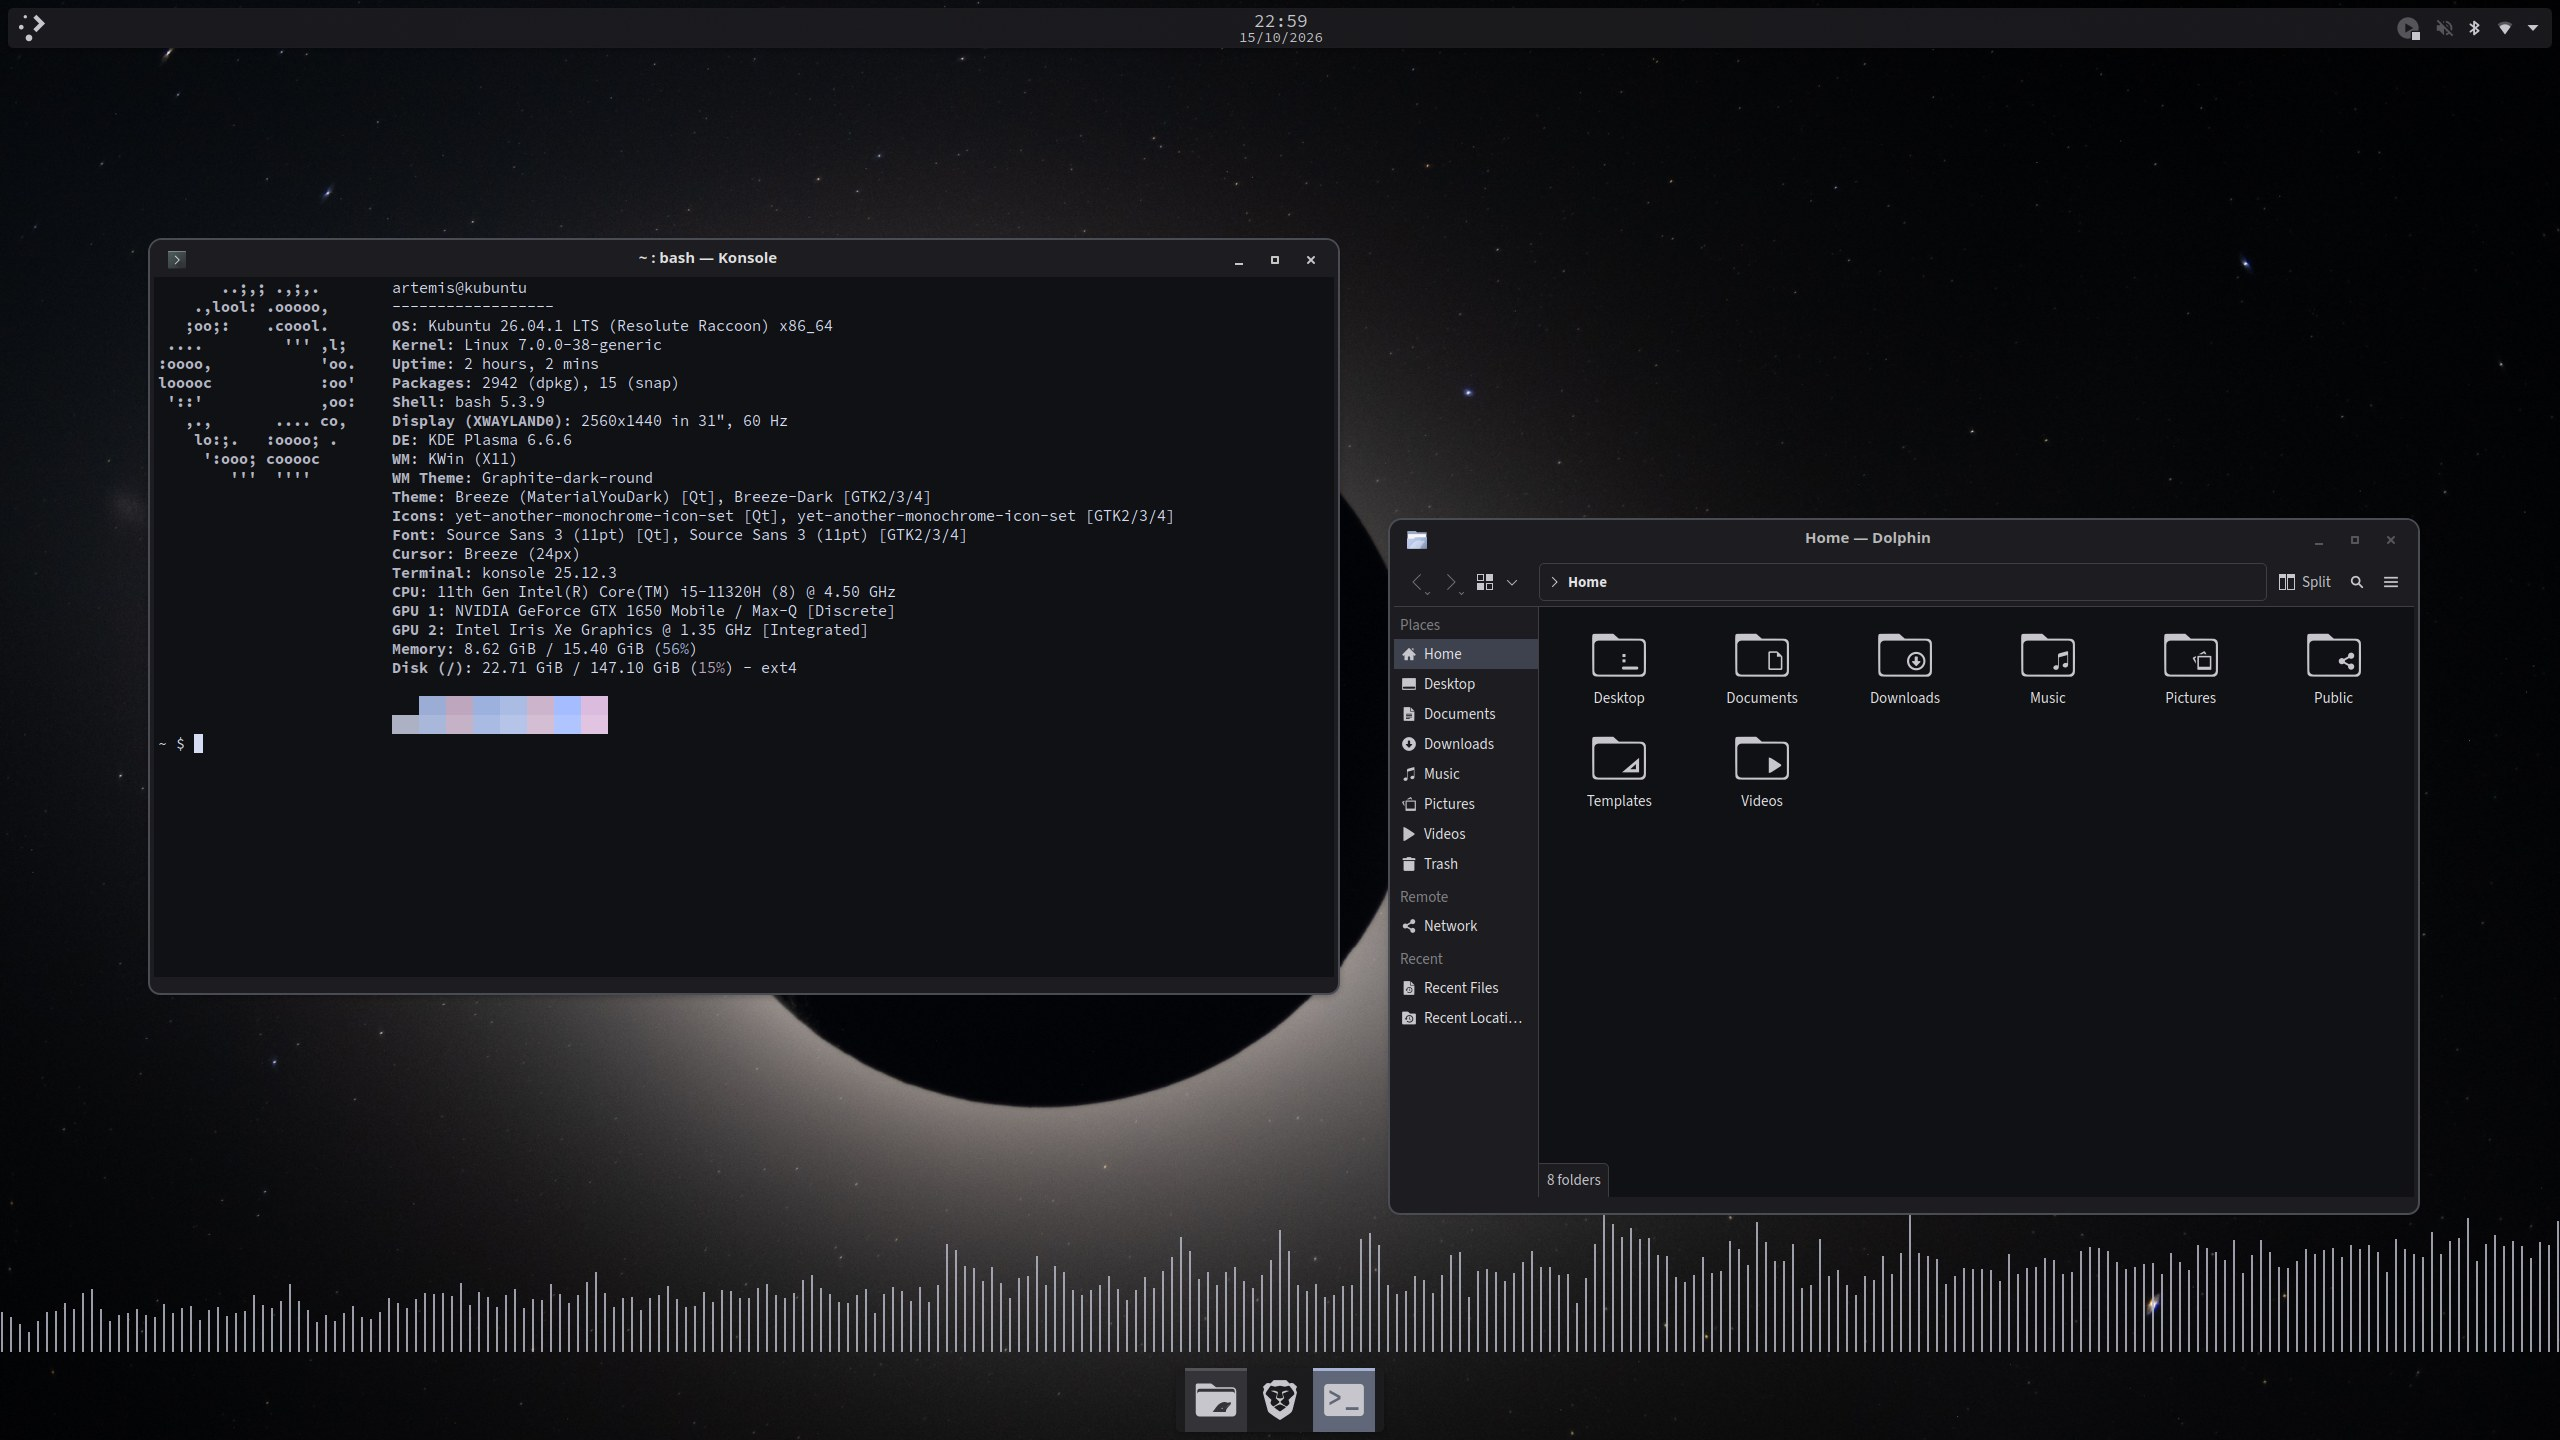
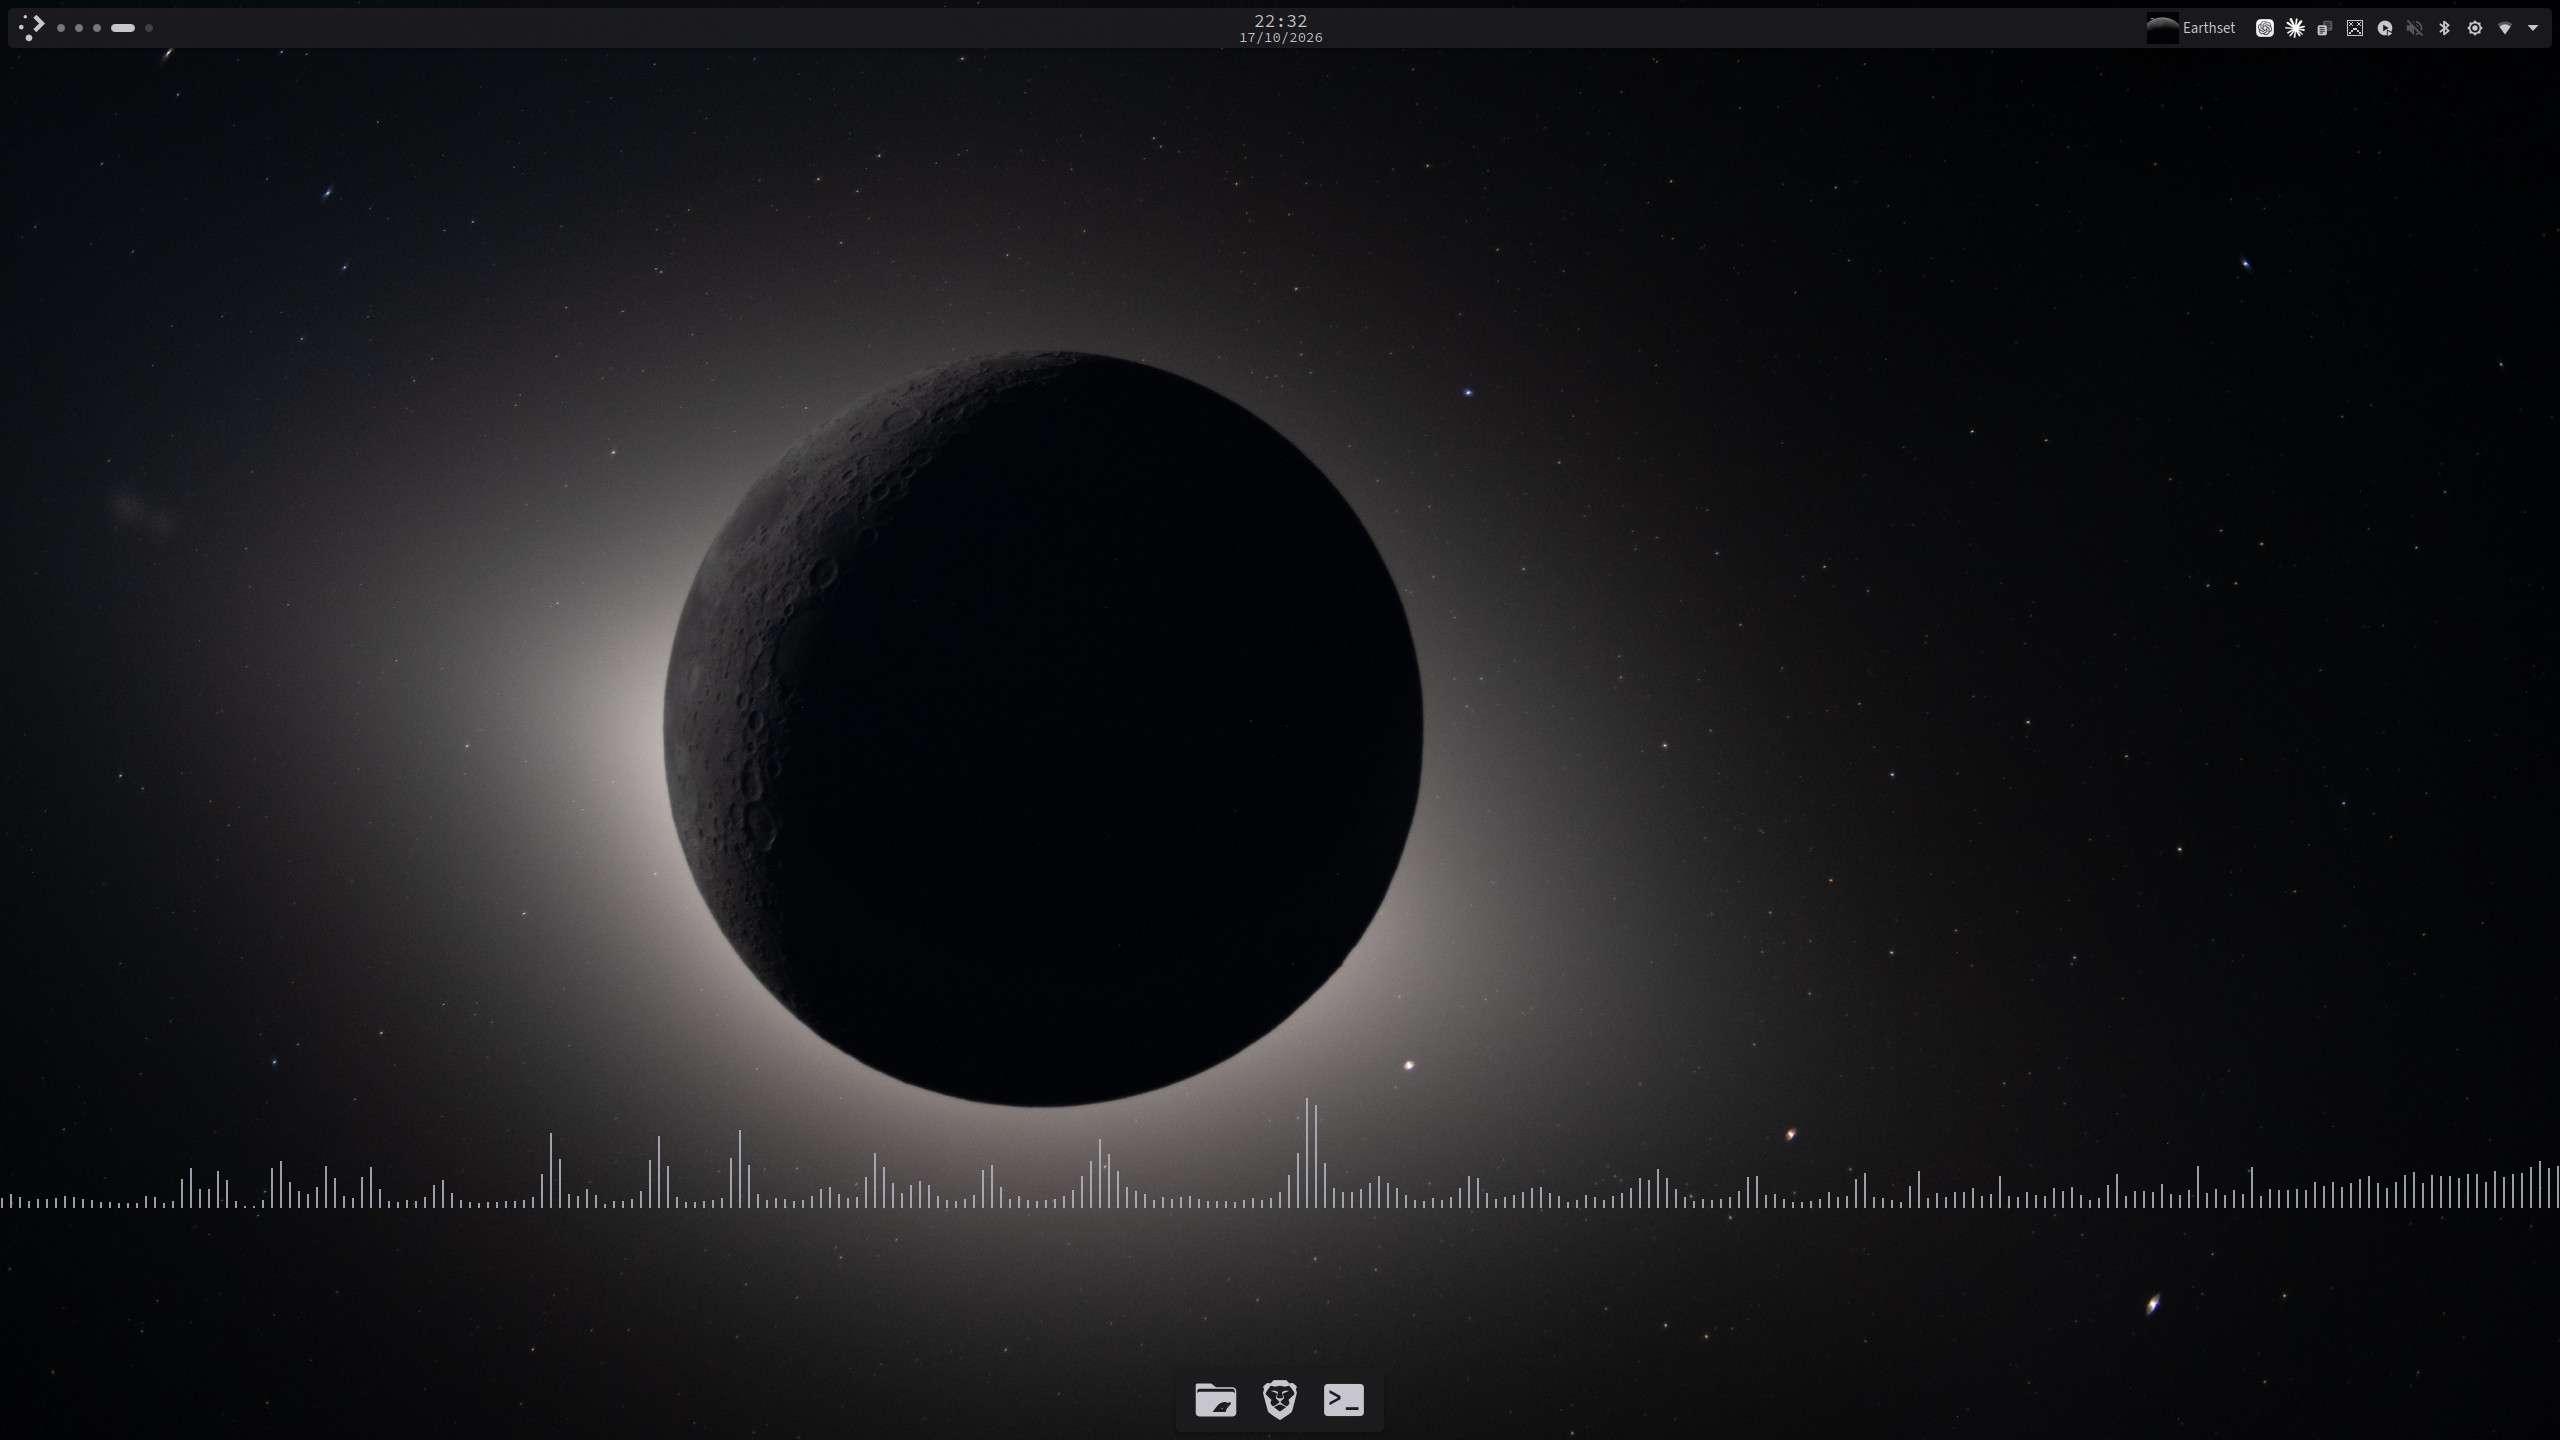
Refresh the README screenshots for tiling and workspace dots
Retake the desktop still with the current top bar, which now shows the
workspace dots and the media controls.

Add a GIF of Krohnkite tiling Konsole, Dolphin, and CAVA as they open,
a switch to an empty desktop and back, and the windows closing again.
It starts and ends on the bare eclipse wallpaper so the loop is seamless.

The lock screen has not changed, so its screenshot stays.

diff --git a/README.md b/README.md
@@ -2,7 +2,9 @@
 
 A basic monochrome lunar preset for KDE Plasma 6, built around NASA's Artemis II photography. Based on [KDE Artemis on r/unixporn](https://www.reddit.com/r/unixporn/comments/1shnpz9/kde_artemis/).
 
-![Desktop with the Artemis II eclipse wallpaper, floating top panel, audio visualizer, and centered dock](docs/images/desktop.jpg)
+![Desktop with the Artemis II eclipse wallpaper, floating top bar with workspace dots and media controls, audio visualizer, and centered dock](docs/images/desktop.jpg)
+
+![Krohnkite tiling Konsole, Dolphin, and CAVA as they open, a switch to an empty desktop and back, then the windows closing to the bare wallpaper](docs/images/tiling.gif)
 
 ![Lock screen with the Artemis II Earthset photograph](docs/images/lock-screen.jpg)
 
